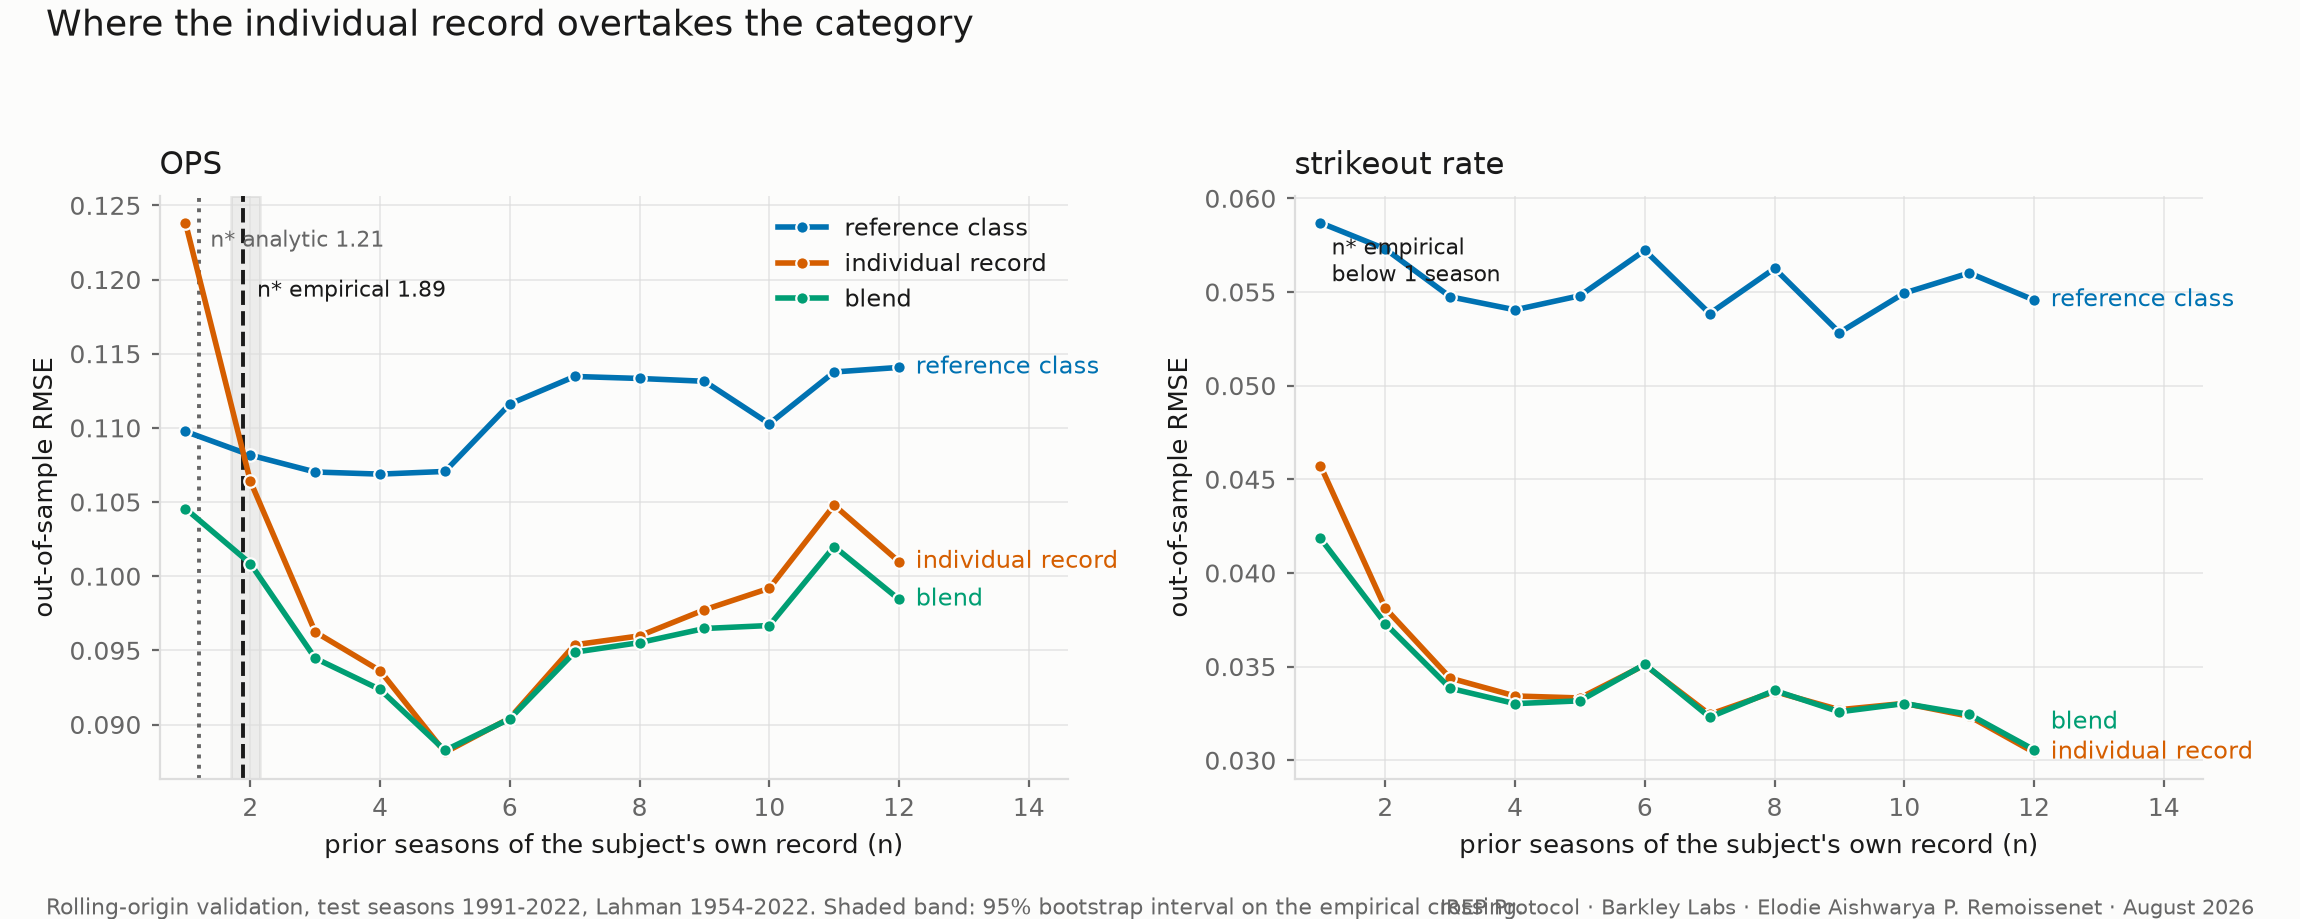
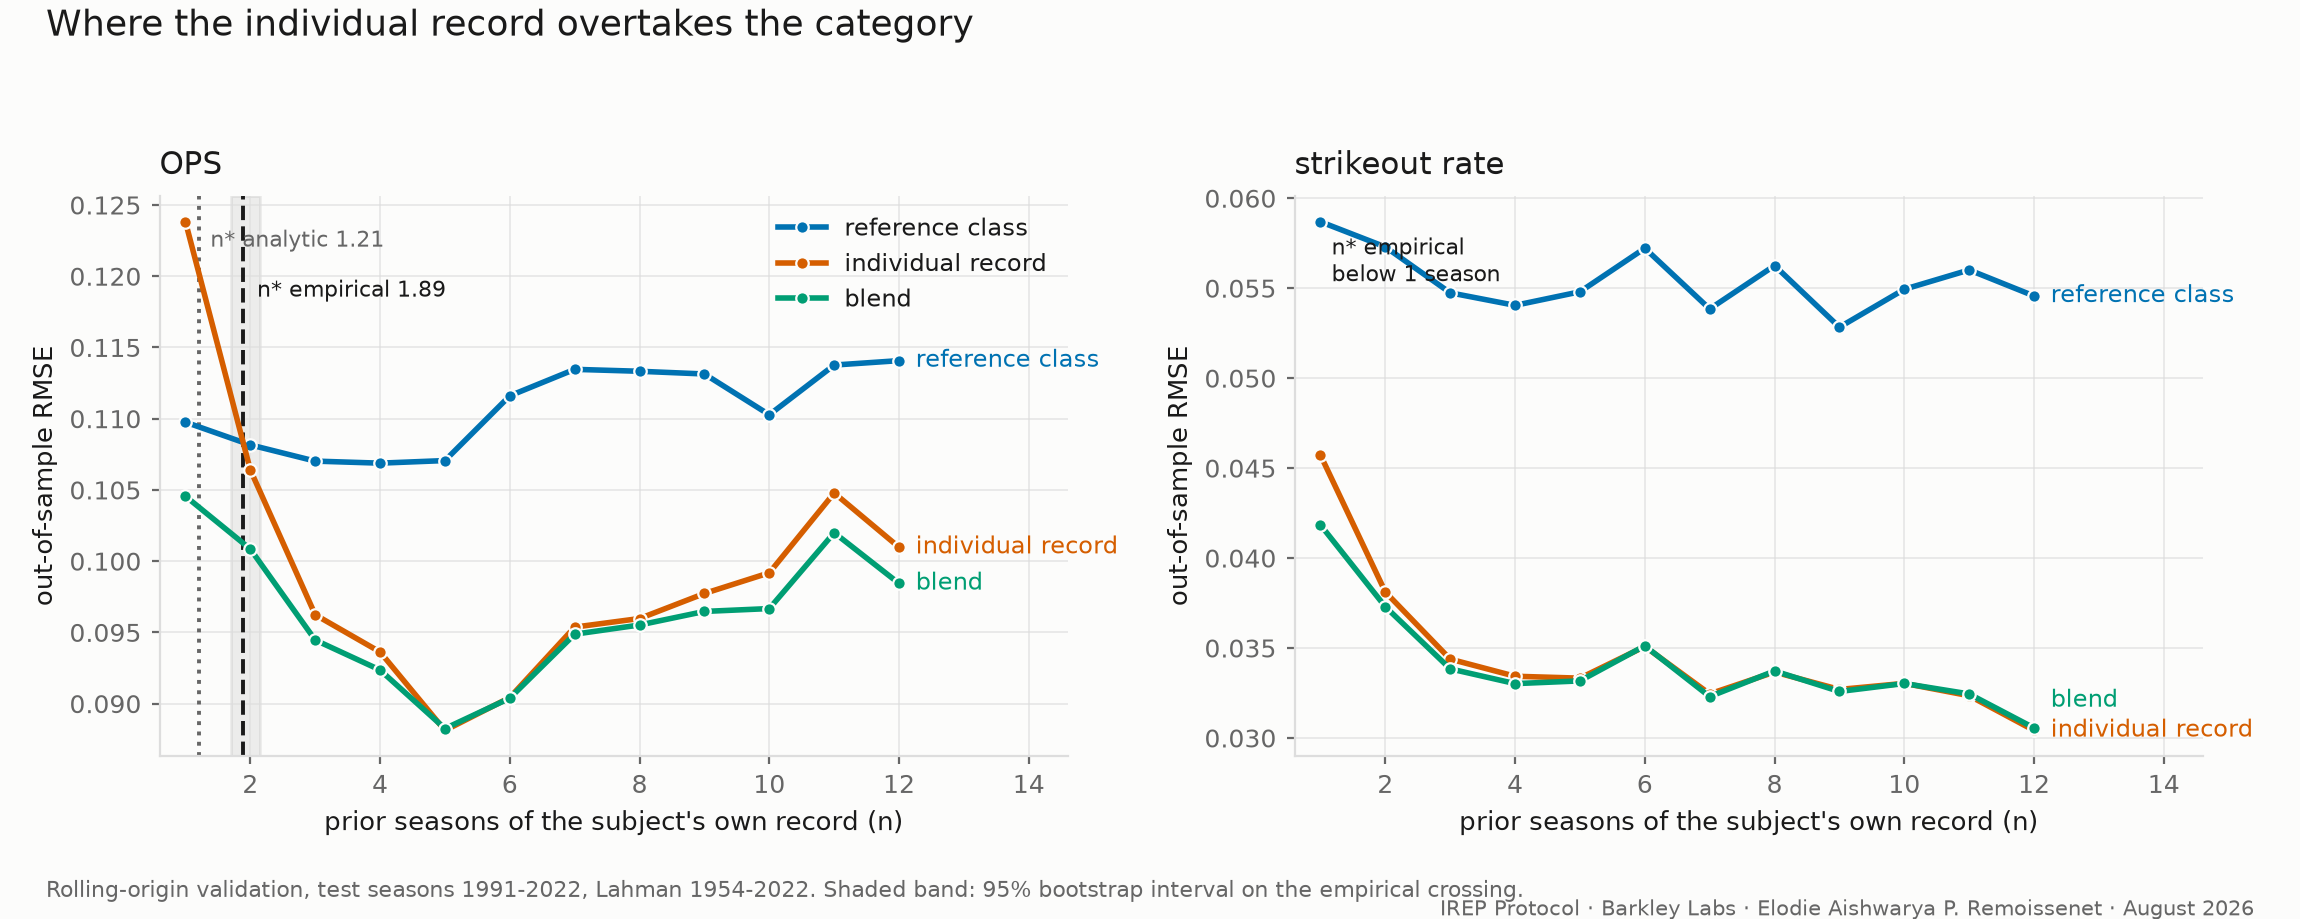
figures: caption and credit on separate footer rows
The left-aligned caption and the right-aligned credit shared one
baseline and collided mid-width. Two stacked rows, bottom margin
widened to fit them.

diff --git a/src/figures.py b/src/figures.py
@@ -106,13 +106,13 @@ def figure1(results, path):
     axes[0].legend(frameon=False, fontsize=8.5, loc="upper right", labelcolor=INK)
     fig.suptitle("Where the individual record overtakes the category",
                  fontsize=13, color=INK, x=0.02, ha="left", y=0.99, fontweight="medium")
-    fig.text(0.02, 0.005,
+    fig.text(0.02, 0.024,
              "Rolling-origin validation, test seasons 1991-2022, Lahman 1954-2022. "
              "Shaded band: 95% bootstrap interval on the empirical crossing.",
              fontsize=8, color=MUTED, ha="left")
-    fig.text(0.98, 0.005, "IREP Protocol · Barkley Labs · Elodie Aishwarya P. Remoissenet · August 2026",
+    fig.text(0.98, 0.004, "IREP Protocol · Barkley Labs · Elodie Aishwarya P. Remoissenet · August 2026",
              fontsize=7.5, color=MUTED, ha="right")
-    fig.tight_layout(rect=[0, 0.03, 1, 0.94])
+    fig.tight_layout(rect=[0, 0.055, 1, 0.94])
     fig.savefig(path, dpi=200, facecolor=SURFACE)
     plt.close(fig)
     return path
@@ -153,13 +153,13 @@ def figure2(results, analytic, path):
     axes[0].legend(frameon=False, fontsize=8.5, loc="lower right", labelcolor=INK)
     fig.suptitle("How fast the optimal weight moves from category to individual",
                  fontsize=13, color=INK, x=0.02, ha="left", y=0.99, fontweight="medium")
-    fig.text(0.02, 0.005,
+    fig.text(0.02, 0.024,
              "Fitted weight is estimated inside the training window only, per stratum of n. "
              "The analytic curve uses the variance components committed before the run.",
              fontsize=8, color=MUTED, ha="left")
-    fig.text(0.98, 0.005, "IREP Protocol · Barkley Labs · Elodie Aishwarya P. Remoissenet · August 2026",
+    fig.text(0.98, 0.004, "IREP Protocol · Barkley Labs · Elodie Aishwarya P. Remoissenet · August 2026",
              fontsize=7.5, color=MUTED, ha="right")
-    fig.tight_layout(rect=[0, 0.03, 1, 0.94])
+    fig.tight_layout(rect=[0, 0.055, 1, 0.94])
     fig.savefig(path, dpi=200, facecolor=SURFACE)
     plt.close(fig)
     return path
